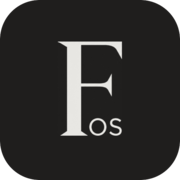
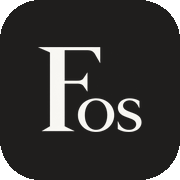
feat(web): new Founder OS brand mark + repeatable asset generator
The founder dropped updated logo art, but only the source PNG changed —
every derived asset the app actually serves still came from the previous
drop, so production kept rendering the old mark.

Re-derived the full icon set from the new art and scripted the recipe that
161c540 applied by hand, so the next logo drop is one command:

- scripts/generate-brand-assets.py: trims the white margin, keys the
  background to alpha off the source's *modal* luminance, recolours to the
  brand tokens, and emits logo-mark / logo-icon / icon / apple-icon /
  favicon.ico in one pass.
- Using the modal luminance rather than 255 fixes a latent defect: the art
  sits on an off-white that varies 252-255, which left a faint paper wash
  across the mark's bounding box — the ghost rectangle visible behind the
  mark in the hand-made badges.
- docs/brand/founderos-logo.png updated to the new source art.
- <LogoMark> width 175 -> 314: the new mark is landscape (594x485 trimmed)
  where the old was portrait, and Next.js letterboxes if the intrinsic
  props disagree with the file.
- CLAUDE.md repo map + ops index record the script.

Verified: turbo lint, check-types and build all pass (8/8 tasks).

diff --git a/founder-os/apps/web/app/_components/logo-mark.tsx b/founder-os/apps/web/app/_components/logo-mark.tsx
@@ -10,13 +10,17 @@ import { clsx } from "clsx";
  * in a Tailwind `dark:` variant.
  *
  * Pass a height utility (`h-8`); the width follows the intrinsic aspect ratio.
+ *
+ * The art and the width/height below are both produced by
+ * `scripts/generate-brand-assets.py` — re-run it after a logo drop and copy the
+ * mark size it reports, or Next.js will letterbox the new proportions.
  */
 export function LogoMark({ className }: { className?: string }) {
   return (
     <Image
       src="/logo-mark.png"
       alt=""
-      width={175}
+      width={314}
       height={256}
       priority
       className={clsx("logo-mark w-auto", className)}

diff --git a/scripts/generate-brand-assets.py b/scripts/generate-brand-assets.py
@@ -1,0 +1,131 @@
+#!/usr/bin/env python3
+"""Derive the Founder OS icon set from the founder-supplied source art.
+
+The recipe was first applied by hand in 161c540; it is scripted here so that a
+new logo drop is one command instead of an afternoon in an image editor. Trim
+the white margin, convert the white background to alpha, recolour to the brand
+tokens, then emit every asset Next.js expects.
+
+    python3 scripts/generate-brand-assets.py                  # docs/brand/founderos-logo.png
+    python3 scripts/generate-brand-assets.py path/to/new.png  # a fresh drop
+
+Outputs, relative to founder-os/apps/web/:
+
+    public/logo-mark.png  tight transparent ink mark, for the in-app <LogoMark>
+    public/logo-icon.png  512 square ink badge, mark knocked out in paper (OG/social)
+    app/icon.png          512 badge  ) wired by the App Router file convention,
+    app/apple-icon.png    180 badge  ) so adding one needs no metadata change
+    app/favicon.ico       16/32/48 badge
+
+After running, check the reported mark size against the width/height props in
+app/_components/logo-mark.tsx - Next.js uses them for the aspect ratio, so art
+with new proportions needs them updated or the mark renders distorted.
+
+Requires Pillow (already in apps/api/requirements.txt; any venv with it works).
+"""
+
+from __future__ import annotations
+
+import sys
+from pathlib import Path
+
+from PIL import Image, ImageDraw
+
+INK = (31, 30, 29)  # --color-ink   #1f1e1d
+PAPER = (250, 249, 245)  # --color-paper #faf9f5
+
+MARK_HEIGHT = 256  # intrinsic height of public/logo-mark.png
+BADGE = 512  # the master badge; every icon size is rendered from the mark
+CORNER_RATIO = 0.22  # rounded-square radius, as a fraction of the badge edge
+CONTENT_RATIO = 0.58  # the mark is fitted inside this fraction of the badge
+ALPHA_FLOOR = 8  # alpha below this is margin, not art, when trimming
+
+
+def load_mark(source: Path) -> Image.Image:
+    """White-background source art -> tight RGBA mark, ink on transparent.
+
+    Alpha is derived from luminance so the type keeps its antialiasing rather
+    than getting a hard keyed edge.
+
+    The white point is the source's *modal* luminance, not 255. The supplied
+    art sits on an off-white that varies 252-255; mapping that to alpha 2-3
+    instead of 0 leaves a faint paper wash across the mark's bounding box,
+    which is the ghost rectangle visible behind the mark in the hand-made
+    161c540 badges. The black point is the 0.5th percentile, so a few stray
+    dark pixels cannot stop the body of the ink from reaching full opacity.
+    """
+    src = Image.open(source).convert("L")
+    histogram = src.histogram()
+    white = max(range(256), key=histogram.__getitem__)
+
+    floor = 0.005 * sum(histogram)
+    running = 0
+    black = 0
+    for value, count in enumerate(histogram):
+        running += count
+        if running >= floor:
+            black = value
+            break
+
+    span = max(1, white - black)
+    alpha = src.point(lambda v: max(0, min(255, round((white - v) * 255 / span))))
+
+    mark = Image.new("RGBA", src.size, INK + (0,))
+    mark.putalpha(alpha)
+
+    bbox = alpha.point(lambda v: 255 if v > ALPHA_FLOOR else 0).getbbox()
+    if bbox is None:
+        raise SystemExit(f"{source}: no artwork found - is it a blank canvas?")
+    return mark.crop(bbox)
+
+
+def rounded_badge(mark: Image.Image, size: int) -> Image.Image:
+    """Ink rounded square with the mark knocked out in paper."""
+    badge = Image.new("RGBA", (size, size), (0, 0, 0, 0))
+    ImageDraw.Draw(badge).rounded_rectangle(
+        (0, 0, size - 1, size - 1),
+        radius=size * CORNER_RATIO,
+        fill=INK + (255,),
+    )
+
+    box = size * CONTENT_RATIO
+    ratio = min(box / mark.width, box / mark.height)
+    width = max(1, round(mark.width * ratio))
+    height = max(1, round(mark.height * ratio))
+
+    knockout = Image.new("RGBA", (width, height), PAPER + (0,))
+    knockout.putalpha(mark.resize((width, height), Image.LANCZOS).split()[3])
+    badge.alpha_composite(knockout, ((size - width) // 2, (size - height) // 2))
+    return badge
+
+
+def main() -> int:
+    root = Path(__file__).resolve().parent.parent
+    source = Path(sys.argv[1]) if len(sys.argv) > 1 else root / "docs/brand/founderos-logo.png"
+    web = root / "founder-os/apps/web"
+
+    mark = load_mark(source)
+    width = max(1, round(mark.width * MARK_HEIGHT / mark.height))
+    flat = mark.resize((width, MARK_HEIGHT), Image.LANCZOS)
+    flat.save(web / "public/logo-mark.png")
+
+    badge = rounded_badge(mark, BADGE)
+    badge.save(web / "public/logo-icon.png")
+    badge.save(web / "app/icon.png")
+    rounded_badge(mark, 180).save(web / "app/apple-icon.png")
+    # Pillow downsamples the .ico members from whatever image it is handed, so
+    # hand it the 512 badge rather than a 48 one.
+    badge.save(web / "app/favicon.ico", sizes=[(16, 16), (32, 32), (48, 48)])
+
+    print(f"source                  {source} ({mark.width}x{mark.height} trimmed)")
+    print(f"public/logo-mark.png    {width}x{MARK_HEIGHT}")
+    print("public/logo-icon.png    512x512")
+    print("app/icon.png            512x512")
+    print("app/apple-icon.png      180x180")
+    print("app/favicon.ico         16/32/48")
+    print(f"\n<LogoMark> must declare width={width} height={MARK_HEIGHT}")
+    return 0
+
+
+if __name__ == "__main__":
+    raise SystemExit(main())

diff --git a/CLAUDE.md b/CLAUDE.md
@@ -82,6 +82,7 @@ founder-os/                          ← git root, this CLAUDE.md, meta-layer
 ├── ops/grafana/        ← observability (ADR-018): alloy/ collector config · dashboards/ (3 JSON)
 │                          · alerts/ · README.md (setup + verification runbook)
 ├── scripts/            ← deploy-server.sh (SSM CD) · deploy-web.sh (guarded Vercel) · backup-db.sh
+│                          · generate-brand-assets.py (logo drop → favicon/icons/mark)
 ├── .github/workflows/  ← ci.yml · deploy.yml · codeql.yml · dependency-review.yml (§6)
 ├── DEPLOY.md            ← production topology + secrets runbook
 ├── readme.md            ← product vision (source of truth for the pitch)
@@ -305,4 +306,4 @@ Capture the answer as a concrete artifact (a new `skills/*.md` via
 - **meta/ runbooks** — [run-nightly-test-sweep](meta/run-nightly-test-sweep.md) (L3 orchestration: report-only nightly test triage)
 - **tasks/** — [conventions](tasks/README.md) · [template](tasks/TEMPLATE.md) · backlog/ active/ completed/. Task IDs are shared across concurrent sessions — `ls tasks/*/` for the next free number, never assume.
 - **reports/** — [conventions](reports/README.md)
-- **ops/** — [DEPLOY.md](DEPLOY.md) (topology + secrets) · [.github/workflows/README.md](.github/workflows/README.md) (CI/CD) · [scripts/](scripts/): [deploy-server.sh](scripts/deploy-server.sh) · [deploy-web.sh](scripts/deploy-web.sh) · [backup-db.sh](scripts/backup-db.sh) (nightly Postgres → S3)
+- **ops/** — [DEPLOY.md](DEPLOY.md) (topology + secrets) · [.github/workflows/README.md](.github/workflows/README.md) (CI/CD) · [scripts/](scripts/): [deploy-server.sh](scripts/deploy-server.sh) · [deploy-web.sh](scripts/deploy-web.sh) · [backup-db.sh](scripts/backup-db.sh) (nightly Postgres → S3) · [generate-brand-assets.py](scripts/generate-brand-assets.py) (source art in `docs/brand/` → favicon · app icons · `<LogoMark>` art; re-run it after any logo drop and copy the mark size it prints into `logo-mark.tsx`)
